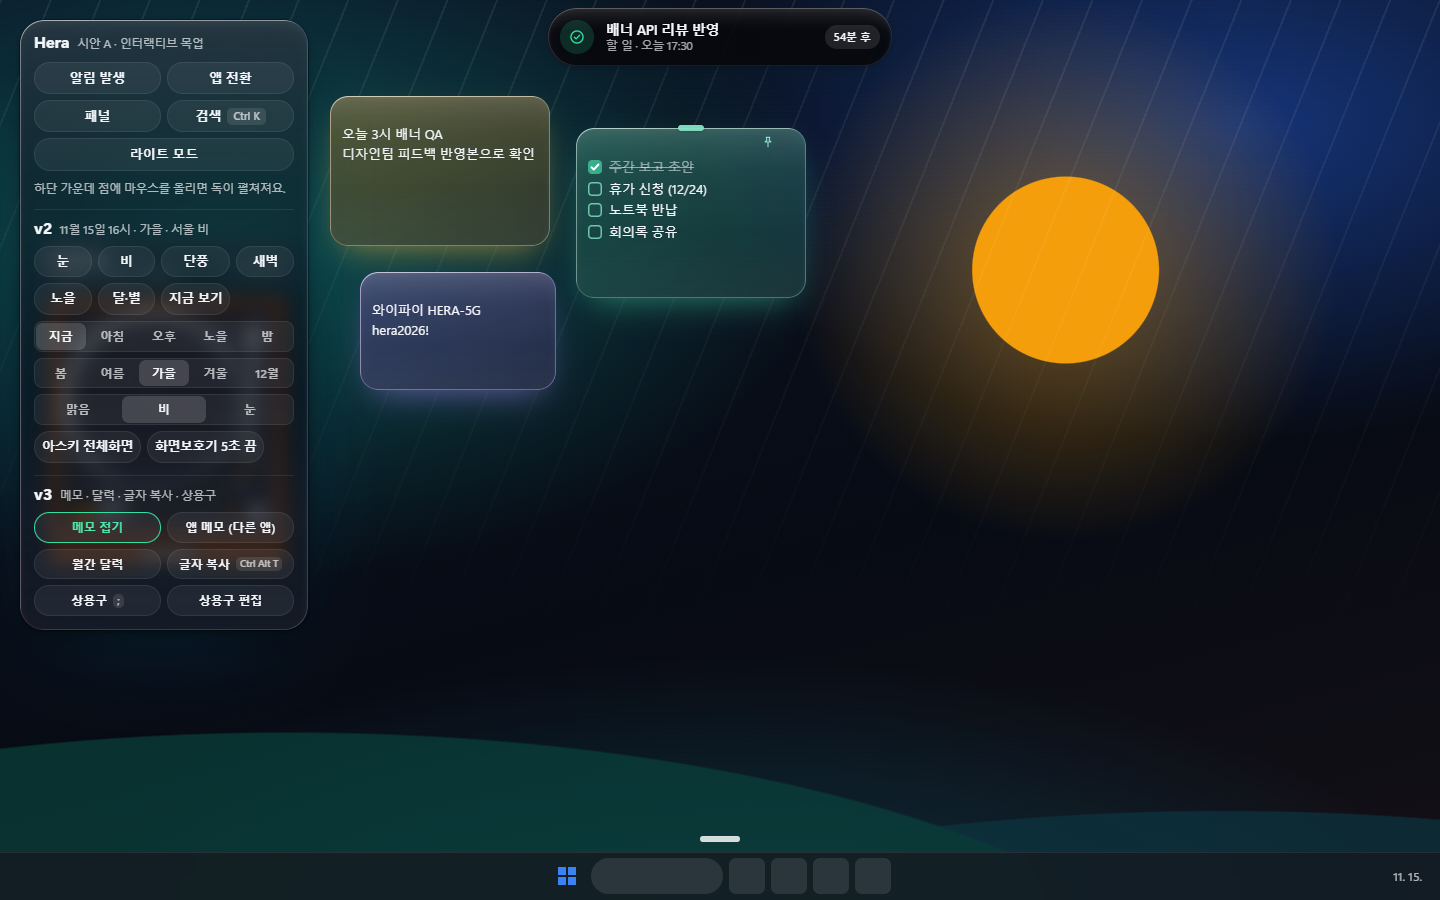
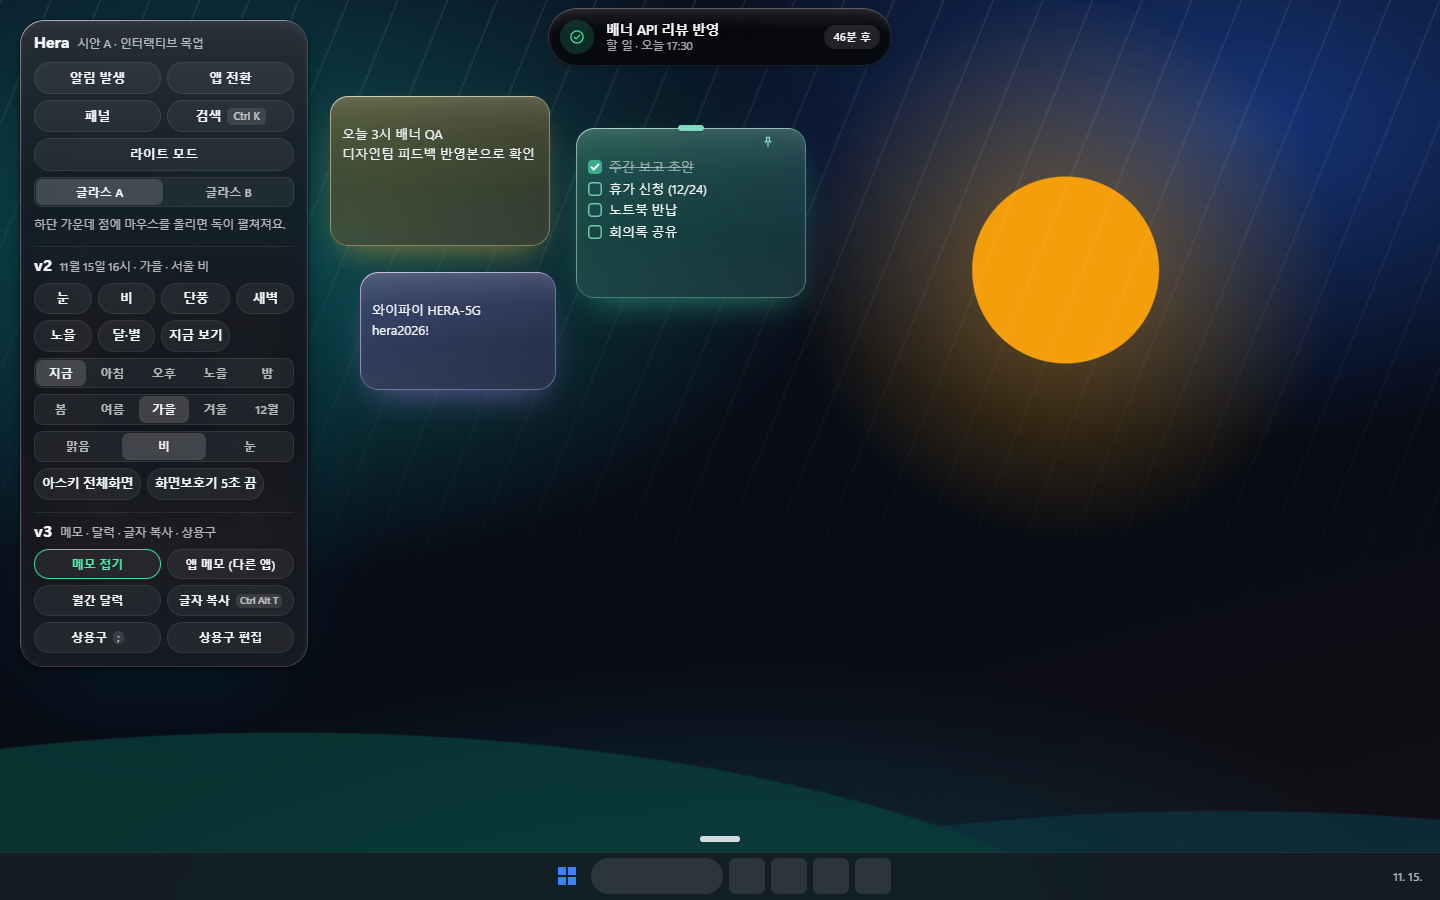
Glass variant B (bolder Liquid Glass) behind a mock-only A/B toggle
- glass-b.css under :root[data-glass='b'] (demo bar "글라스 A / B", or ?glass=b):
  clear 0.10 fill + 6px blur, static ~12px rim lens band (SVG displacement whose
  map is neutral in the centre) on panel/palette/notes, strong specular + top sheen,
  deeper coloured ambient shadow, dense inner plates under text (AA), card radius 28
  with concentric inner radii, more saturated accent
- Dock: floating pill (radius/padding/rim thickness now CSS vars read by paint()),
  lifted 10px, thicker rim + stronger vertical lens, nested capsule widgets
- Island: solid plate + transform-only sheen sweep restarted per mode
- Both variants: demo card uses a dense fill (no turntable smear); mockup dock box
  widened so the long mock row fits inside the glass
- Screenshots 70-B-* and refreshed 70-after-*

Claude-Session: https://claude.ai/code/session_01SzVMEvr5862sQYSQnnGtNq

Changed region(s): [[0.0, 0.1867, 0.2188, 0.7467]]

diff --git a/src/styles/glass-b.css b/src/styles/glass-b.css
@@ -1,0 +1,160 @@
+/* 글라스 B (시안 전용 비교안, :root[data-glass='b']): 과감한 Liquid Glass.
+   - 큰 표면: 아주 맑은 유리(채움 0.10, 블러 6px) + 테두리 ~12px 렌즈 띠(SVG 변위, 가운데 변위 0) — 정적.
+     렌즈·블러·채움·림은 ::after(메모는 ::before) 한 겹에 몰아 둔다. 표면 자체에 backdrop-filter 를 두면
+     그 표면이 backdrop root 가 되어 안쪽 레이어가 바탕화면을 못 보기 때문.
+   - 글자가 빽빽한 곳은 안쪽 짙은 판(--glass-plate)이 받친다 → 대비 AA.
+   - 독: 바닥에서 떠 있는 알약(반경 36) + 두꺼운 림 + 세로 렌즈, 위젯은 안쪽 알약.
+   - island: 짙은 판 유지 + 모드가 바뀔 때 빛 띠가 한 번 스쳐 지나감(transform 만). */
+
+:root[data-glass='b'] {
+  --r-card: 28px;
+  --r-inner: 16px; /* 28 − 여백 12 */
+  --accent: #00c785;
+  --accent-soft: rgba(0, 199, 133, 0.18);
+  --glass-clear: rgba(250, 252, 255, 0.1);
+  --glass-plate: rgba(246, 248, 252, 0.76);
+  --sheen-b:
+    linear-gradient(180deg, rgba(255, 255, 255, 0.5) 0, rgba(255, 255, 255, 0.16) 16%, rgba(255, 255, 255, 0) 34%),
+    radial-gradient(120% 55% at 18% 0%, rgba(255, 255, 255, 0.28), transparent 60%);
+  --spec-b:
+    inset 1.5px 2px 0 -0.5px #fff,
+    inset -1px -1.5px 0 -0.5px rgba(255, 255, 255, 0.65),
+    inset 0 0 0 1px rgba(255, 255, 255, 0.38),
+    inset 0 0 24px -6px rgba(255, 255, 255, 0.5),
+    inset 4px 0 6px -4px rgba(255, 80, 140, 0.3),
+    inset -4px 0 6px -4px rgba(60, 140, 255, 0.34);
+  --shadow-b: 0 0 0 0.5px rgba(14, 30, 60, 0.12), 0 4px 10px -4px rgba(14, 30, 60, 0.2), 0 28px 60px -20px rgba(24, 70, 140, 0.45), 0 64px 120px -44px rgba(0, 120, 140, 0.4);
+  --blur-b: blur(6px) saturate(190%) brightness(1.06);
+  /* 독 모양 (Dock.tsx paint 가 읽음): 알약 반경 = 바 높이 72 / 2, 좌우 여백, 림 두께 */
+  --dock-r: 36;
+  --dock-pad: 44;
+  --dock-rim: 1.5;
+}
+:root[data-glass='b'][data-theme='dark'] {
+  --accent: #1ff0a6;
+  --accent-soft: rgba(31, 240, 166, 0.18);
+  --glass-clear: rgba(14, 18, 26, 0.16);
+  --glass-plate: rgba(14, 17, 24, 0.74);
+  --sheen-b:
+    linear-gradient(180deg, rgba(255, 255, 255, 0.16) 0, rgba(255, 255, 255, 0.04) 16%, rgba(255, 255, 255, 0) 34%),
+    radial-gradient(120% 55% at 18% 0%, rgba(255, 255, 255, 0.08), transparent 60%);
+  --spec-b:
+    inset 1.5px 2px 0 -0.5px rgba(255, 255, 255, 0.6),
+    inset -1px -1.5px 0 -0.5px rgba(255, 255, 255, 0.2),
+    inset 0 0 0 1px rgba(255, 255, 255, 0.1),
+    inset 0 0 24px -6px rgba(255, 255, 255, 0.12),
+    inset 4px 0 6px -4px rgba(255, 80, 140, 0.22),
+    inset -4px 0 6px -4px rgba(60, 140, 255, 0.26);
+  --shadow-b: 0 0 0 0.5px rgba(0, 0, 0, 0.6), 0 4px 12px -4px rgba(0, 0, 0, 0.45), 0 28px 64px -20px rgba(0, 0, 0, 0.7), 0 64px 120px -44px rgba(8, 90, 120, 0.6);
+}
+
+/* ── 큰 표면: 맑은 유리 + 테두리 렌즈 띠 ── */
+:root[data-glass='b'] :is(.panel, .palette, .note) { background: none; backdrop-filter: none; box-shadow: var(--shadow-b); }
+:root[data-glass='b'] .panel { --rim-lens: url(#hera-rim-panel); }
+:root[data-glass='b'] .palette { --rim-lens: url(#hera-rim-palette); }
+:root[data-glass='b'] .note { --rim-lens: url(#hera-rim-note); }
+:root[data-glass='b'] :is(.panel, .palette)::after,
+:root[data-glass='b'] .note::before {
+  content: '';
+  position: absolute;
+  inset: 0;
+  z-index: -1;
+  border-radius: inherit;
+  padding: 0;
+  mask: none;
+  opacity: 1;
+  background: var(--sheen-b), var(--glass-clear);
+  box-shadow: var(--spec-b);
+  backdrop-filter: blur(6px) var(--rim-lens) saturate(190%) brightness(1.06);
+  pointer-events: none;
+}
+:root[data-glass='b'] .note::before {
+  background:
+    var(--sheen-b),
+    linear-gradient(160deg, color-mix(in srgb, var(--nc) 34%, transparent), color-mix(in srgb, var(--nc) 14%, transparent)),
+    var(--glass-clear);
+  box-shadow: var(--spec-b), inset 0 0 0 1px color-mix(in srgb, var(--nc) 30%, transparent);
+}
+
+/* 글자가 빽빽한 곳 = 안쪽 판 (동심원: 카드 28 − 여백 12 = 16) */
+:root[data-glass='b'] .panel-body {
+  margin: 0 12px 12px;
+  padding: 10px;
+  border-radius: var(--r-inner);
+  background: var(--glass-plate);
+  box-shadow: inset 0 0 0 0.5px var(--line), inset 0 1px 0 rgba(255, 255, 255, 0.3);
+}
+:root[data-glass='b'] .tabs { background: var(--glass-plate); }
+:root[data-glass='b'] .palette { display: flex; flex-direction: column; gap: 6px; padding: 8px; }
+:root[data-glass='b'] :is(.palette-input, .palette-list) { border-radius: 20px; background: var(--glass-plate); box-shadow: inset 0 0 0 0.5px var(--line); }
+:root[data-glass='b'] .palette-list li { border-radius: 14px; /* 20 − 6 */ }
+:root[data-glass='b'] .note-body { margin: 0 6px 6px; padding: 8px 10px; border-radius: 12px; background: color-mix(in srgb, var(--glass-plate) 82%, transparent); }
+
+/* ── 독: 떠 있는 알약 ── */
+:root[data-glass='b'] .desktop[data-only='all'] .dock { bottom: 62px; }
+:root[data-glass='b'] .dock-glass {
+  background: linear-gradient(180deg, transparent 14%, rgba(255, 255, 255, 0.42) 14.5%, rgba(255, 255, 255, 0.1) 32%, transparent 62%, rgba(255, 255, 255, 0.18)), var(--glass-clear);
+}
+:root[data-glass='b'] .desktop[data-only='all'] .dock-glass { backdrop-filter: blur(5px) url(#hera-lens-dock-b) saturate(190%) brightness(1.06); }
+:root[data-glass='b'] .dock-ring { background: linear-gradient(180deg, #fff, rgba(255, 255, 255, 0.6) 30%, rgba(255, 255, 255, 0.28) 70%, rgba(255, 255, 255, 0.8)); }
+:root[data-glass='b'][data-theme='dark'] .dock-ring { background: linear-gradient(180deg, rgba(255, 255, 255, 0.7), rgba(255, 255, 255, 0.22) 30%, rgba(255, 255, 255, 0.08) 70%, rgba(255, 255, 255, 0.3)); }
+/* 떠 있는 그림자: clip-path 레이어엔 box-shadow 가 안 붙으니 바 아래 정적 타원 (opacity 만) */
+:root[data-glass='b'] .dock::before {
+  content: '';
+  position: absolute;
+  left: 50%;
+  bottom: -14px;
+  width: 70%;
+  height: 34px;
+  transform: translateX(-50%);
+  background: radial-gradient(closest-side, rgba(20, 60, 110, 0.38), transparent);
+  opacity: 0;
+  pointer-events: none;
+  transition: opacity 240ms;
+}
+:root[data-glass='b'] .dock[data-open='true']::before { opacity: 1; }
+:root[data-glass='b'] .dock .widget {
+  border-radius: 26px; /* 알약 36 − 여백 10 */
+  background: rgba(255, 255, 255, 0.16);
+  box-shadow: inset 1px 1.5px 0 -0.5px rgba(255, 255, 255, 0.8), inset 0 0 0 1px rgba(255, 255, 255, 0.22), inset 0 8px 14px -10px rgba(255, 255, 255, 0.6);
+}
+:root[data-glass='b'][data-theme='dark'] .dock .widget { background: rgba(255, 255, 255, 0.07); box-shadow: inset 1px 1.5px 0 -0.5px rgba(255, 255, 255, 0.3), inset 0 0 0 1px rgba(255, 255, 255, 0.08); }
+:root[data-glass='b'] .dock .shelf { outline-offset: -6px; }
+
+/* ── island: 짙은 판 + 모드 전환 때 빛 띠 스윕 (애니메이션 이름을 모드마다 바꿔 재시작) ── */
+:root[data-glass='b'] .island-shape {
+  overflow: hidden;
+  box-shadow:
+    inset 0 1.5px 0 rgba(255, 255, 255, 0.34),
+    inset 1px 0 0 rgba(255, 255, 255, 0.14),
+    inset 0 -1px 0 rgba(255, 255, 255, 0.08),
+    inset 0 12px 18px -12px rgba(255, 255, 255, 0.26),
+    inset 4px 0 6px -4px rgba(255, 80, 140, 0.2),
+    inset -4px 0 6px -4px rgba(60, 140, 255, 0.24),
+    0 2px 6px rgba(0, 0, 0, 0.22), 0 18px 40px -12px rgba(4, 40, 60, 0.5);
+}
+:root[data-glass='b'] .island-shape::after {
+  content: '';
+  position: absolute;
+  top: 0;
+  bottom: 0;
+  left: 0;
+  width: 45%;
+  background: linear-gradient(100deg, transparent 15%, rgba(255, 255, 255, 0.24) 50%, transparent 85%);
+  transform: translateX(-110%);
+  pointer-events: none;
+}
+:root[data-glass='b'] .island[data-mode='idle'] .island-shape::after { animation: isw-idle 900ms var(--ease-out); }
+:root[data-glass='b'] .island[data-mode='preview'] .island-shape::after { animation: isw-preview 900ms var(--ease-out) 60ms; }
+:root[data-glass='b'] .island[data-mode='nowPlaying'] .island-shape::after { animation: isw-play 900ms var(--ease-out) 60ms; }
+:root[data-glass='b'] .island[data-mode='alert'] .island-shape::after { animation: isw-alert 900ms var(--ease-out) 60ms; }
+:root[data-glass='b'] .island[data-mode='drop'] .island-shape::after { animation: isw-drop 900ms var(--ease-out) 60ms; }
+@keyframes isw-idle { from { transform: translateX(-110%); } to { transform: translateX(330%); } }
+@keyframes isw-preview { from { transform: translateX(-110%); } to { transform: translateX(330%); } }
+@keyframes isw-play { from { transform: translateX(-110%); } to { transform: translateX(330%); } }
+@keyframes isw-alert { from { transform: translateX(-110%); } to { transform: translateX(330%); } }
+@keyframes isw-drop { from { transform: translateX(-110%); } to { transform: translateX(330%); } }
+
+@media (prefers-reduced-motion: reduce) {
+  :root[data-glass='b'] .island-shape::after { animation: none !important; }
+}

diff --git a/src/surfaces/GlassDefs.tsx b/src/surfaces/GlassDefs.tsx
@@ -34,18 +34,20 @@ const CH = [
   ['0 0 0 0 0  0 0 0 0 0  0 0 1 0 0  0 0 0 1 0', 0.84],
 ] as const
 
-function Lens({ id, map, scale }: { id: string; map: string; scale: number }) {
+// chroma=false: 변위 1회만 (큰 표면용 테두리 렌즈 — 색수차 3회 대신)
+function Lens({ id, map, scale, chroma = true }: { id: string; map: string; scale: number; chroma?: boolean }) {
   return (
     <filter id={id} x="0" y="0" width="1" height="1" primitiveUnits="objectBoundingBox" colorInterpolationFilters="sRGB">
       <feImage href={map} x="0" y="0" width="1" height="1" preserveAspectRatio="none" result="map" />
-      {CH.map(([m, k], i) => (
+      {!chroma && <feDisplacementMap in="SourceGraphic" in2="map" scale={scale} xChannelSelector="R" yChannelSelector="G" />}
+      {chroma && CH.map(([m, k], i) => (
         <Fragment key={i}>
           <feDisplacementMap in="SourceGraphic" in2="map" scale={scale * k} xChannelSelector="R" yChannelSelector="G" result={`d${i}`} />
           <feColorMatrix in={`d${i}`} values={m} result={`c${i}`} />
         </Fragment>
       ))}
-      <feBlend in="c0" in2="c1" mode="screen" result="rg" />
-      <feBlend in="rg" in2="c2" mode="screen" />
+      {chroma && <feBlend in="c0" in2="c1" mode="screen" result="rg" />}
+      {chroma && <feBlend in="rg" in2="c2" mode="screen" />}
     </filter>
   )
 }
@@ -59,6 +61,12 @@ export function GlassDefs() {
       lens: lensMap(64, 64, 0.18, 0.22),
       // 독: 세로 렌즈만 (바 너비가 바뀌므로). 바 = 레이어 아래 72/84 → 위 14% 는 변위 없음
       dock: lensMap(2, 84, 0, 0.2, 12 / 84),
+      // 글라스 B: 큰 표면의 ~12px 테두리 띠만 굴절 (가운데는 변위 0). 맵은 비율이라 표면 크기별로 하나씩.
+      // ponytail: 크기가 바뀌는 팔레트·메모는 대표 크기 기준 — 띠 폭이 몇 px 달라질 수 있음
+      panel: lensMap(256, 256, 13 / 384, 13 / 540), // 384×540
+      palette: lensMap(256, 256, 13 / 580, 13 / 420), // 580×~420
+      note: lensMap(128, 128, 12 / 230, 12 / 170), // ~230×170
+      dockB: lensMap(2, 84, 0, 0.28, 12 / 84),
     }),
     [],
   )
@@ -105,6 +113,10 @@ export function GlassDefs() {
     <svg width="0" height="0" aria-hidden style={{ position: 'absolute' }}>
       <Lens id="hera-lens" map={maps.lens} scale={0.07} />
       <Lens id="hera-lens-dock" map={maps.dock} scale={0.1} />
+      <Lens id="hera-rim-panel" map={maps.panel} scale={0.034} chroma={false} />
+      <Lens id="hera-rim-palette" map={maps.palette} scale={0.024} chroma={false} />
+      <Lens id="hera-rim-note" map={maps.note} scale={0.06} chroma={false} />
+      <Lens id="hera-lens-dock-b" map={maps.dockB} scale={0.17} />
     </svg>
   )
 }

diff --git a/src/surfaces/Dock.tsx b/src/surfaces/Dock.tsx
@@ -13,10 +13,10 @@ const rr = (x: number, y: number, w: number, h: number, r: number) =>
   `M${x + r},${y}H${x + w - r}A${r},${r} 0 0 1 ${x + w},${y + r}V${y + h - r}A${r},${r} 0 0 1 ${x + w - r},${y + h}` +
   `H${x + r}A${r},${r} 0 0 1 ${x},${y + h - r}V${y + r}A${r},${r} 0 0 1 ${x + r},${y}Z`
 
-export function shape(x: number, y: number, w: number, h: number, r: number) {
+export function shape(x: number, y: number, w: number, h: number, r: number, t = 1) {
   return {
     glass: `path("${rr(x, y, w, h, r)}")`,
-    ring: `path(evenodd, "${rr(x, y, w, h, r)}${rr(x + 1, y + 1, w - 2, h - 2, Math.max(0, r - 1))}")`,
+    ring: `path(evenodd, "${rr(x, y, w, h, r)}${rr(x + t, y + t, w - 2 * t, h - 2 * t, Math.max(0, r - t))}")`,
   }
 }
 
@@ -116,9 +116,11 @@ export function Dock({ records, running, panelOpen, onLaunch, onPanel, onDropFil
   // 모양 쓰기: 펼침/접힘은 스프링, 확대 추종은 짧은 ease-out
   const paint = (extra: number, fast: boolean) => {
     const W = root.current!.offsetWidth
-    const barW = row.current!.offsetWidth + 20
+    // 모서리·좌우 여백·림 두께는 CSS 변수 (글라스 B = 떠 있는 알약 독)
+    const cs = getComputedStyle(root.current!), v = (k: string, d: number) => parseFloat(cs.getPropertyValue(k)) || d
+    const barW = row.current!.offsetWidth + v('--dock-pad', 20)
     const s = open
-      ? shape((W - barW - extra) / 2, BOX - BAR_H, barW + extra, BAR_H, 22)
+      ? shape((W - barW - extra) / 2, BOX - BAR_H, barW + extra, BAR_H, v('--dock-r', 22), v('--dock-rim', 1))
       : shape((W - 40) / 2, BOX - 12, 40, 6, 3)
     const t = fast ? 'clip-path 140ms var(--ease-out)' : 'clip-path var(--dur-bouncy) var(--spring-bouncy)'
     glass.current!.style.transition = ring.current!.style.transition = t

diff --git a/src/styles/glass.css b/src/styles/glass.css
@@ -53,6 +53,8 @@
   --dot: rgba(30, 41, 59, 0.6);
   --taskbar: rgba(238, 242, 247, 0.8);
   --blur: blur(9px) saturate(180%) brightness(1.04);
+  /* 시안 데모 카드 전용: 뒤의 픽셀 턴테이블이 얕은 블러로 번져 보이지 않게 짙게 */
+  --glass-dense: rgba(244, 247, 252, 0.88);
   /* 작은 요소 전용: 얕은 블러 + 가장자리 굴절 렌즈 (GlassDefs 의 SVG 필터) */
   --blur-lens: blur(3px) url(#hera-lens) saturate(180%) brightness(1.05);
 
@@ -103,6 +105,7 @@
   --dot: rgba(255, 255, 255, 0.82);
   --taskbar: rgba(22, 24, 30, 0.8);
   --island-solid: rgba(6, 8, 12, 0.92);
+  --glass-dense: rgba(16, 19, 26, 0.86);
 }
 
 * { box-sizing: border-box; }
@@ -266,6 +269,7 @@ kbd {
   padding: 14px;
   z-index: 50;
 }
+.demo.glass-card { background: var(--glass-sheen), var(--glass-dense); backdrop-filter: blur(24px) saturate(160%); }
 .demo header { display: flex; align-items: baseline; gap: 8px; margin-bottom: 10px; }
 .demo header b { font: 700 16px/1 var(--font-display); letter-spacing: -0.01em; }
 .demo header small { color: var(--text-2); font-size: 11.5px; }
@@ -297,7 +301,7 @@ kbd {
   pointer-events: none;
   z-index: 30;
 }
-.desktop[data-only='all'] .dock { bottom: 52px; }
+.desktop[data-only='all'] .dock { bottom: 52px; width: 1290px; } /* 시안의 독 줄(레코드·묶음·위젯 다수)이 960 보다 넓다 — 실제 앱 창 폭은 Rust 가 정함 */
 .dock-glass,
 .dock-ring {
   position: absolute;

diff --git a/src/mockup/Desktop.tsx b/src/mockup/Desktop.tsx
@@ -254,6 +254,10 @@ export function Desktop({ only }: { only?: string }) {
     return () => window.removeEventListener('keydown', onKey)
   }, [])
 
+  // 시안 전용: 글라스 A(정제) / B(과감한 Liquid Glass) 비교 — ?glass=b 로도 시작
+  const [glass, setGlass] = useState(() => new URLSearchParams(location.search).get('glass') ?? 'a')
+  useEffect(() => void (document.documentElement.dataset.glass = glass), [glass])
+
   const toggleTheme = () => {
     const t = theme === 'dark' ? 'light' : 'dark'
     document.documentElement.dataset.theme = t
@@ -336,6 +340,11 @@ export function Desktop({ only }: { only?: string }) {
               <button onClick={() => (panel?.open ? closePanel() : openPanel('todo'))}>패널</button>
               <button onClick={() => setPalette(true)}>검색 <kbd>Ctrl K</kbd></button>
               <button onClick={toggleTheme} aria-label="테마 전환">{theme === 'dark' ? '라이트' : '다크'} 모드</button>
+            </div>
+            <div className="demo-seg" role="group" aria-label="글라스">
+              {(['a', 'b'] as const).map((g) => (
+                <button key={g} aria-pressed={glass === g} onClick={() => setGlass(g)}>글라스 {g.toUpperCase()}</button>
+              ))}
             </div>
             <p>하단 가운데 점에 마우스를 올리면 독이 펼쳐져요.</p>
             <header className="demo-sub">

diff --git a/src/main.tsx b/src/main.tsx
@@ -4,6 +4,7 @@ import './styles/glass.css'
 import './styles/turntable.css'
 import './styles/v2.css'
 import './styles/v3.css'
+import './styles/glass-b.css'
 import { Desktop } from './mockup/Desktop'
 
 // ?surface=dock|island|panel|turntable|palette|ascii|fx|all (fx: &fx=snow|rain|leaves|sunset|moon)
